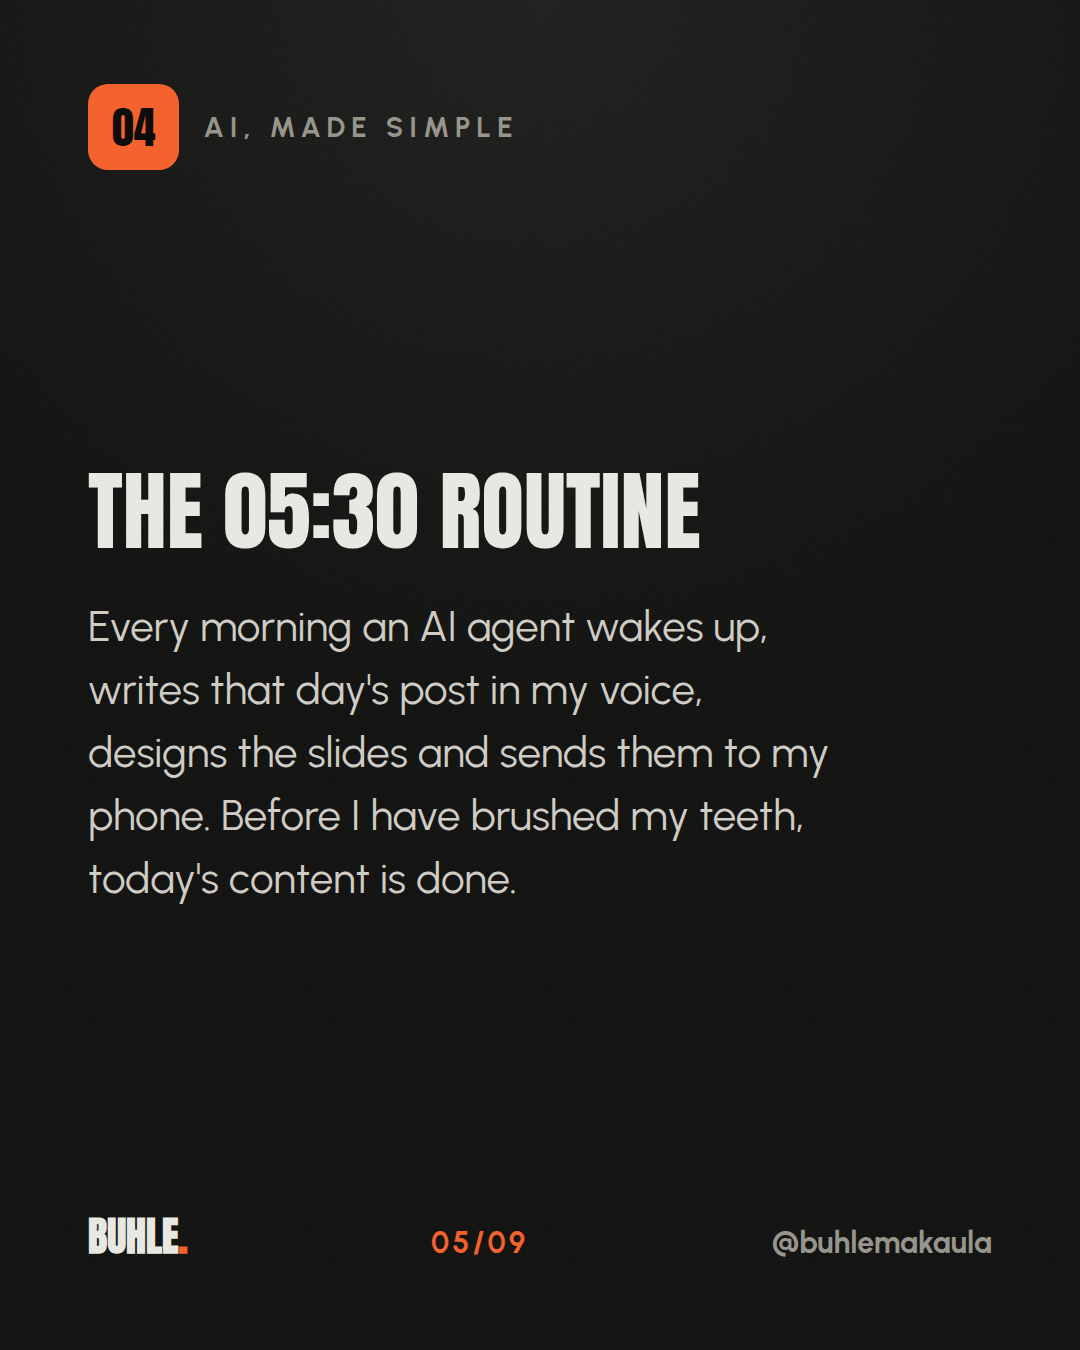
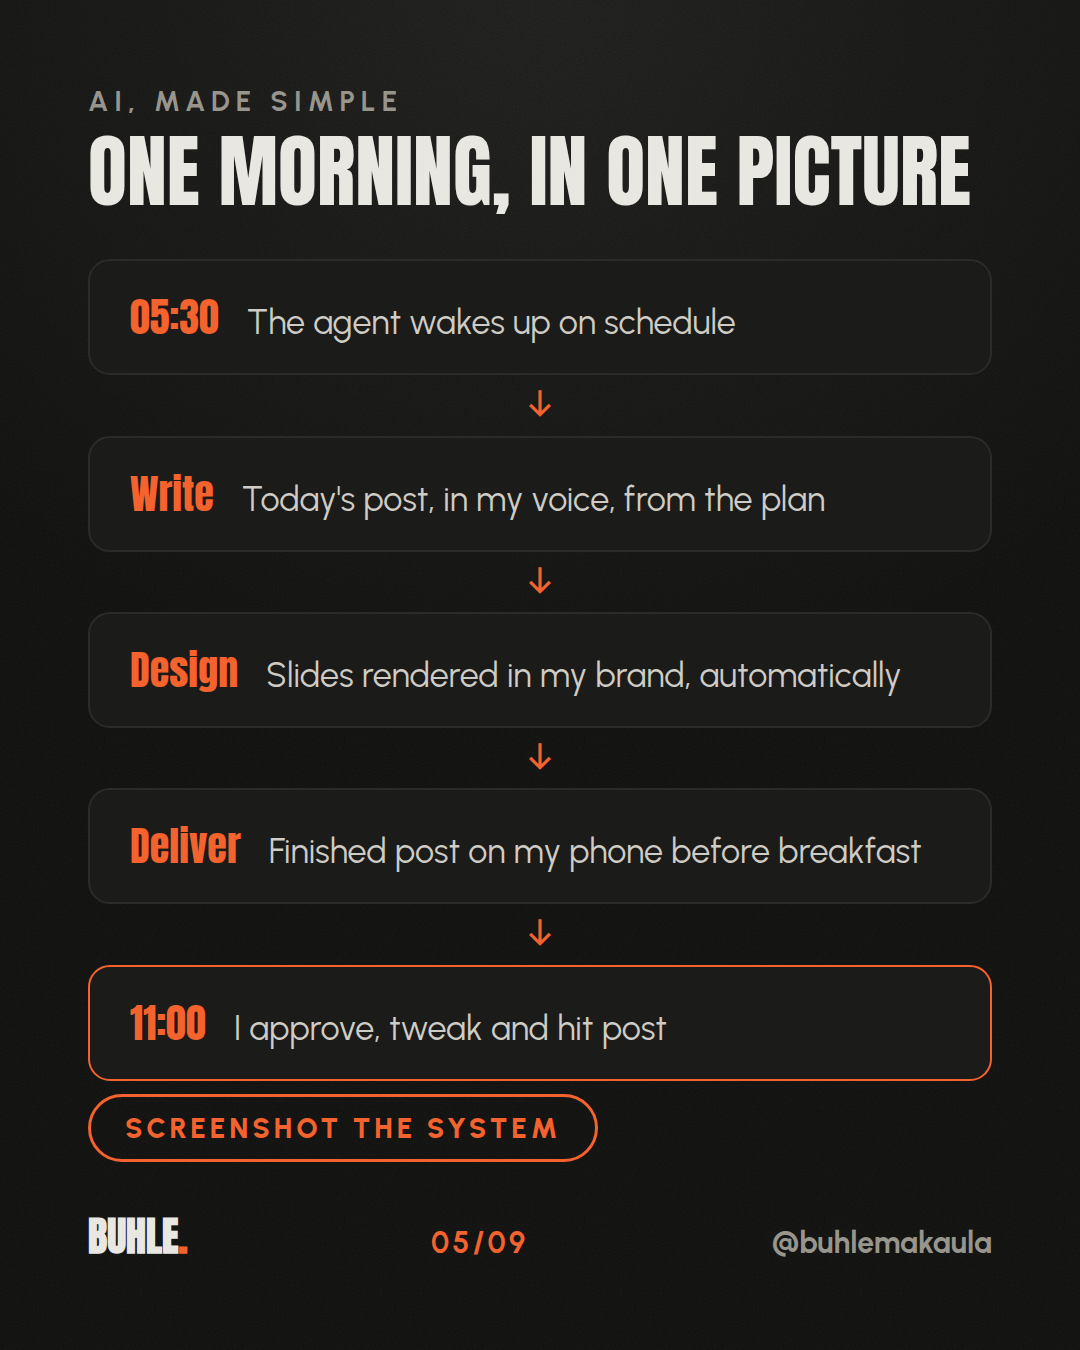
Add diagram slide types to the post renderer
Five new visual slide types: flow pipelines with orange arrows, direct
labelled comparison bars with a single emphasised bar, hero stat
slides, token chip visualisations that distinguish whole words from
word pieces, and timelines. Week one posts now carry a system flow
diagram, a tokenisation chip visual and an hour by hour timeline, and
the calendar principles document the diagram schema for the daily
agent.

Claude-Session: https://claude.ai/code/session_01NSYXyiPU8FjqASpJLARP25

diff --git a/scripts/render-post.js b/scripts/render-post.js
@@ -98,6 +98,67 @@ function slideHTML(s, i, total) {
         <div class="example"><span class="exlabel">Your move</span><p>${esc(s.action)}</p></div>
       </div>${footer}</div>`;
   }
+  if (s.type === "flow") {
+    const steps = (s.items || []).map((it, k) => `
+      ${k > 0 ? '<div class="flow-arrow">&darr;</div>' : ""}
+      <div class="flow-box${it.hot ? " hot" : ""}"><span class="flow-t">${esc(it.t)}</span><span class="flow-d">${esc(it.d)}</span></div>`).join("");
+    return `<div class="slide flow">
+      <div class="eyebrow-row"><span class="series">${esc(series)}</span></div>
+      <div class="mid">
+        <h2>${esc(s.heading)}</h2>
+        <div class="flow-col">${steps}</div>
+      </div>${footer}</div>`;
+  }
+  if (s.type === "bars") {
+    const max = Math.max(...(s.items || []).map((it) => it.value));
+    const rows = (s.items || []).map((it) => `
+      <div class="bar-row">
+        <div class="bar-label">${esc(it.label)}</div>
+        <div class="bar-track"><div class="bar-fill${it.hot ? " hot" : ""}" style="width:${Math.max(6, (it.value / max) * 100)}%"></div>
+        <span class="bar-value">${esc(it.display != null ? it.display : it.value)}</span></div>
+      </div>`).join("");
+    return `<div class="slide barslide">
+      <div class="eyebrow-row"><span class="series">${esc(series)}</span></div>
+      <div class="mid">
+        <h2>${esc(s.heading)}</h2>
+        <div class="bars">${rows}</div>
+        ${s.note ? `<p class="note">${esc(s.note)}</p>` : ""}
+      </div>${footer}</div>`;
+  }
+  if (s.type === "stat") {
+    return `<div class="slide statslide">
+      <div class="eyebrow-row"><span class="series">${esc(series)}</span></div>
+      <div class="mid">
+        ${s.kicker ? `<p class="kicker">${esc(s.kicker)}</p>` : ""}
+        <div class="stat-value">${esc(s.value)}</div>
+        <p class="body">${esc(s.body)}</p>
+      </div>${footer}</div>`;
+  }
+  if (s.type === "chips") {
+    // A chunk that doesn't start with a space continues the previous word (a
+    // word piece) — grey. Space-prefixed chunks start whole words — orange.
+    const chips = (s.items || []).map((c, k) => {
+      const piece = k > 0 && !c.startsWith(" ");
+      return `<span class="chip${piece ? " piece" : ""}">${esc(c.trim())}</span>`;
+    }).join("");
+    return `<div class="slide chipslide">
+      <div class="eyebrow-row"><span class="series">${esc(series)}</span></div>
+      <div class="mid">
+        <h2>${esc(s.heading)}</h2>
+        <div class="chip-row">${chips}</div>
+        ${s.note ? `<p class="note">${esc(s.note)}</p>` : ""}
+      </div>${footer}</div>`;
+  }
+  if (s.type === "timeline") {
+    const rows = (s.items || []).map((it) => `
+      <div class="tl-row"><span class="tl-time">${esc(it.t)}</span><span class="tl-dot"></span><span class="tl-text">${esc(it.d)}</span></div>`).join("");
+    return `<div class="slide tlslide">
+      <div class="eyebrow-row"><span class="series">${esc(series)}</span></div>
+      <div class="mid">
+        <h2>${esc(s.heading)}</h2>
+        <div class="tl">${rows}</div>
+      </div>${footer}</div>`;
+  }
   if (s.type === "cover") {
     return `<div class="slide cover">
       <div class="eyebrow-row"><span class="pill">${esc(series)}</span></div>
@@ -236,6 +297,53 @@ const page_html = `<!DOCTYPE html><html><head><meta charset="utf-8"><style>
     width: 34px; height: 34px; border-radius: 9px;
     border: 4px solid #f4622e;
   }
+
+  .flow h2, .barslide h2, .chipslide h2, .tlslide h2 {
+    font-family: "Anton", sans-serif; font-weight: 400;
+    font-size: 80px; line-height: 1.0; text-transform: uppercase; margin-bottom: 48px;
+  }
+
+  .flow-col { display: flex; flex-direction: column; align-items: stretch; }
+  .flow-box {
+    background: #1b1b1a; border: 2px solid #2b2b29; border-radius: 22px;
+    padding: 26px 40px; display: flex; align-items: baseline; gap: 28px;
+  }
+  .flow-box.hot { border-color: #f4622e; }
+  .flow-t { font-family: "Anton", sans-serif; font-size: 40px; color: #f4622e; white-space: nowrap; }
+  .flow-d { font-size: 34px; color: #cfccc5; line-height: 1.3; }
+  .flow-arrow { text-align: center; color: #f4622e; font-size: 44px; line-height: 1.1; padding: 6px 0; }
+
+  .bars { display: flex; flex-direction: column; gap: 44px; }
+  .bar-label { font-size: 32px; font-weight: 700; color: #98958d; margin-bottom: 14px; text-transform: uppercase; letter-spacing: 0.08em; }
+  .bar-track { display: flex; align-items: center; gap: 26px; }
+  .bar-fill { height: 34px; border-radius: 8px; background: #45453f; }
+  .bar-fill.hot { background: #f4622e; }
+  .bar-value { font-family: "Anton", sans-serif; font-size: 40px; color: #e9e7e2; white-space: nowrap; }
+  .barslide .note, .chipslide .note { margin-top: 52px; font-size: 36px; line-height: 1.45; color: #cfccc5; }
+
+  .stat-value {
+    font-family: "Anton", sans-serif; font-size: 320px; line-height: 1;
+    color: #f4622e; margin: 20px 0 40px;
+  }
+  .statslide .kicker { margin-bottom: 0; }
+
+  .chip-row { display: flex; flex-wrap: wrap; gap: 18px; }
+  .chip {
+    font-family: "Urbanist", sans-serif; font-weight: 700; font-size: 40px;
+    color: #e9e7e2; background: #1b1b1a; border: 3px solid #f4622e;
+    border-radius: 16px; padding: 14px 26px;
+  }
+  .chip.piece { border-color: #45453f; }
+
+  .tl { display: flex; flex-direction: column; position: relative; }
+  .tl-row { display: flex; align-items: center; gap: 34px; padding: 26px 0; position: relative; }
+  .tl-time { font-family: "Anton", sans-serif; font-size: 44px; color: #f4622e; width: 190px; flex: none; }
+  .tl-dot { width: 22px; height: 22px; border-radius: 50%; background: #f4622e; flex: none; }
+  .tl-row:not(:last-child) .tl-dot::after {
+    content: ""; position: absolute; left: calc(190px + 34px + 9px); top: 62%;
+    width: 4px; height: 76%; background: #2b2b29;
+  }
+  .tl-text { font-size: 38px; color: #cfccc5; line-height: 1.35; }
 
   .engage {
     position: relative; z-index: 2; align-self: flex-start;
